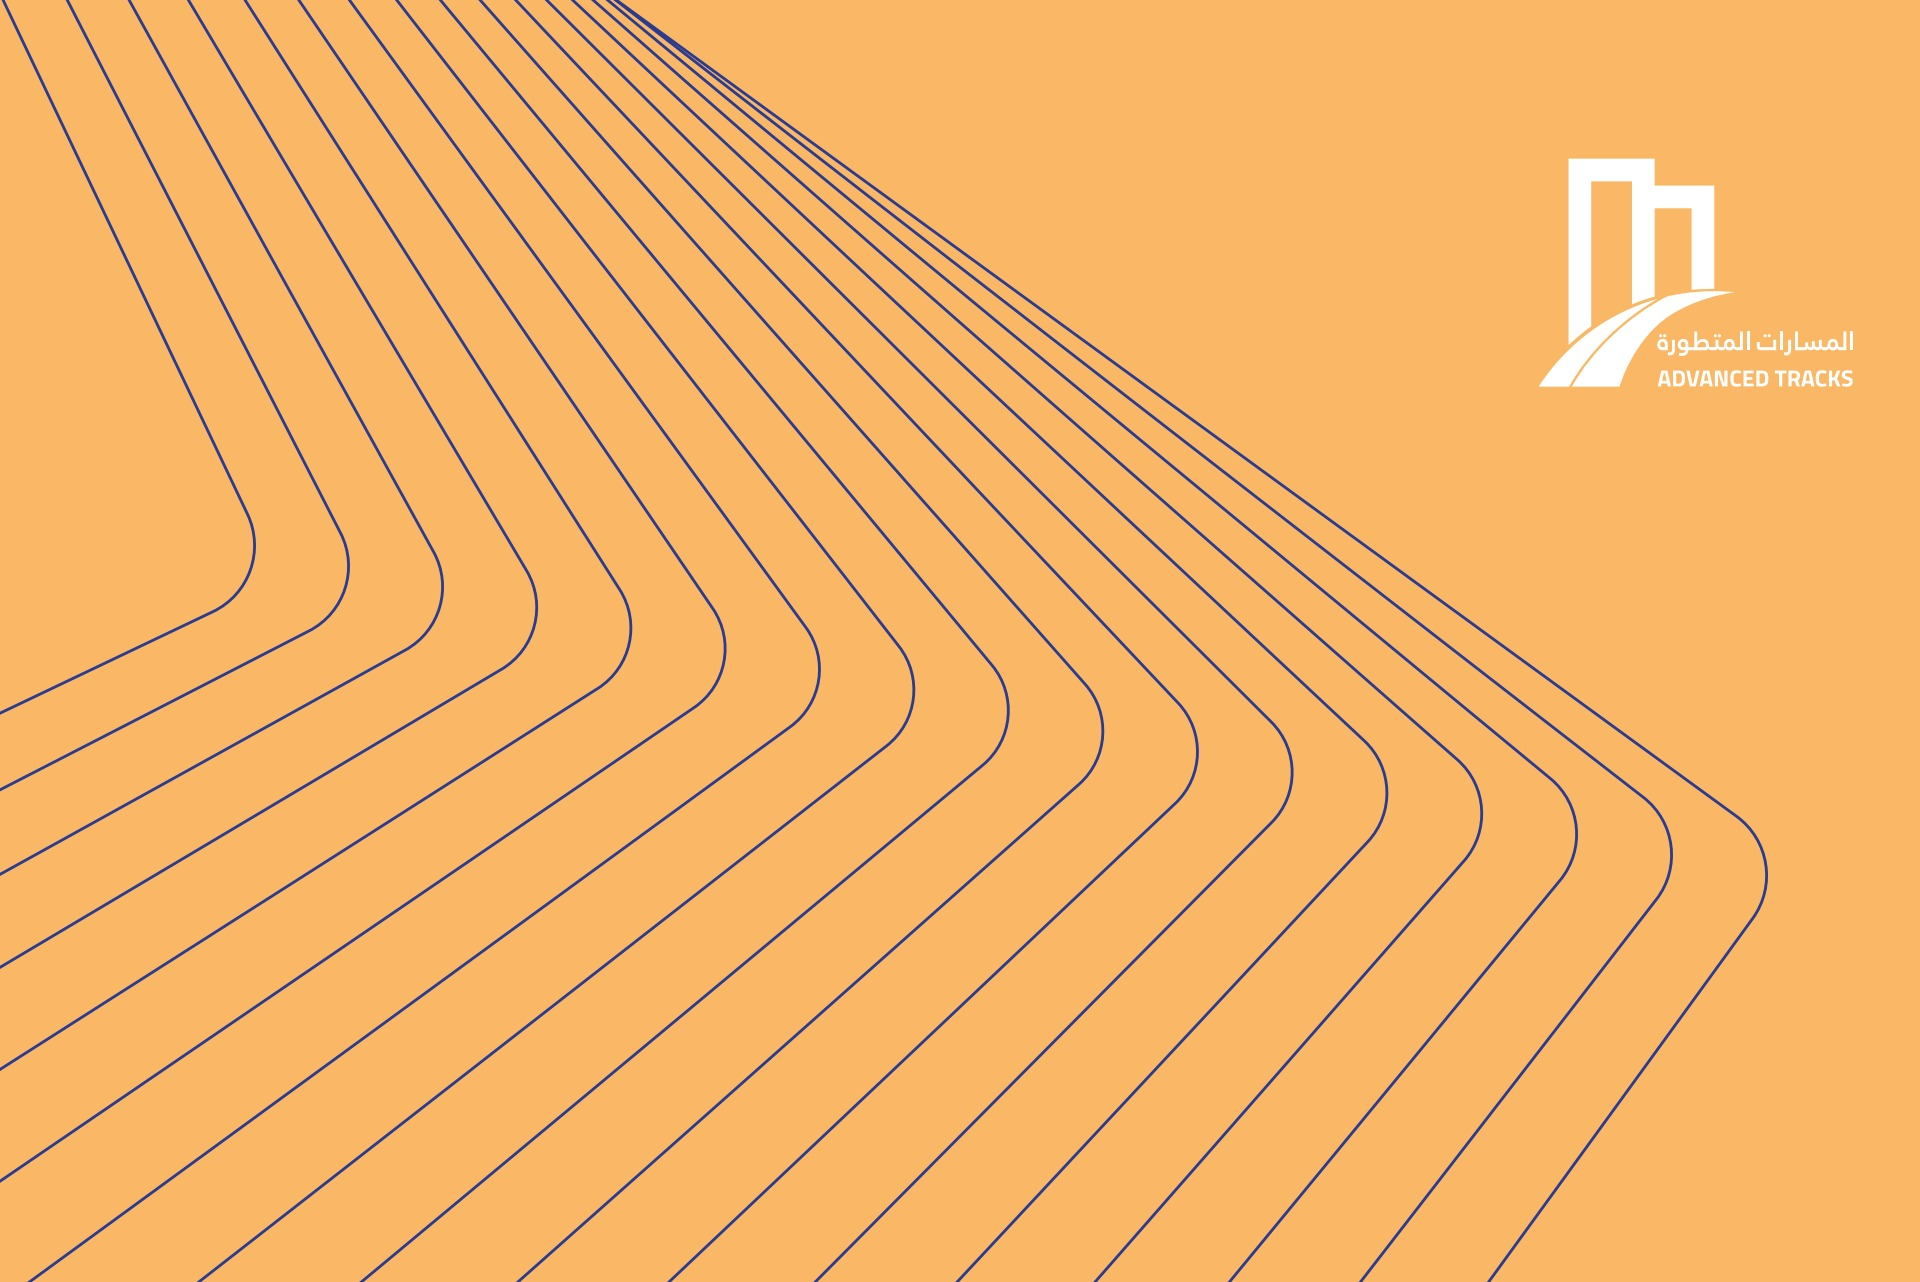
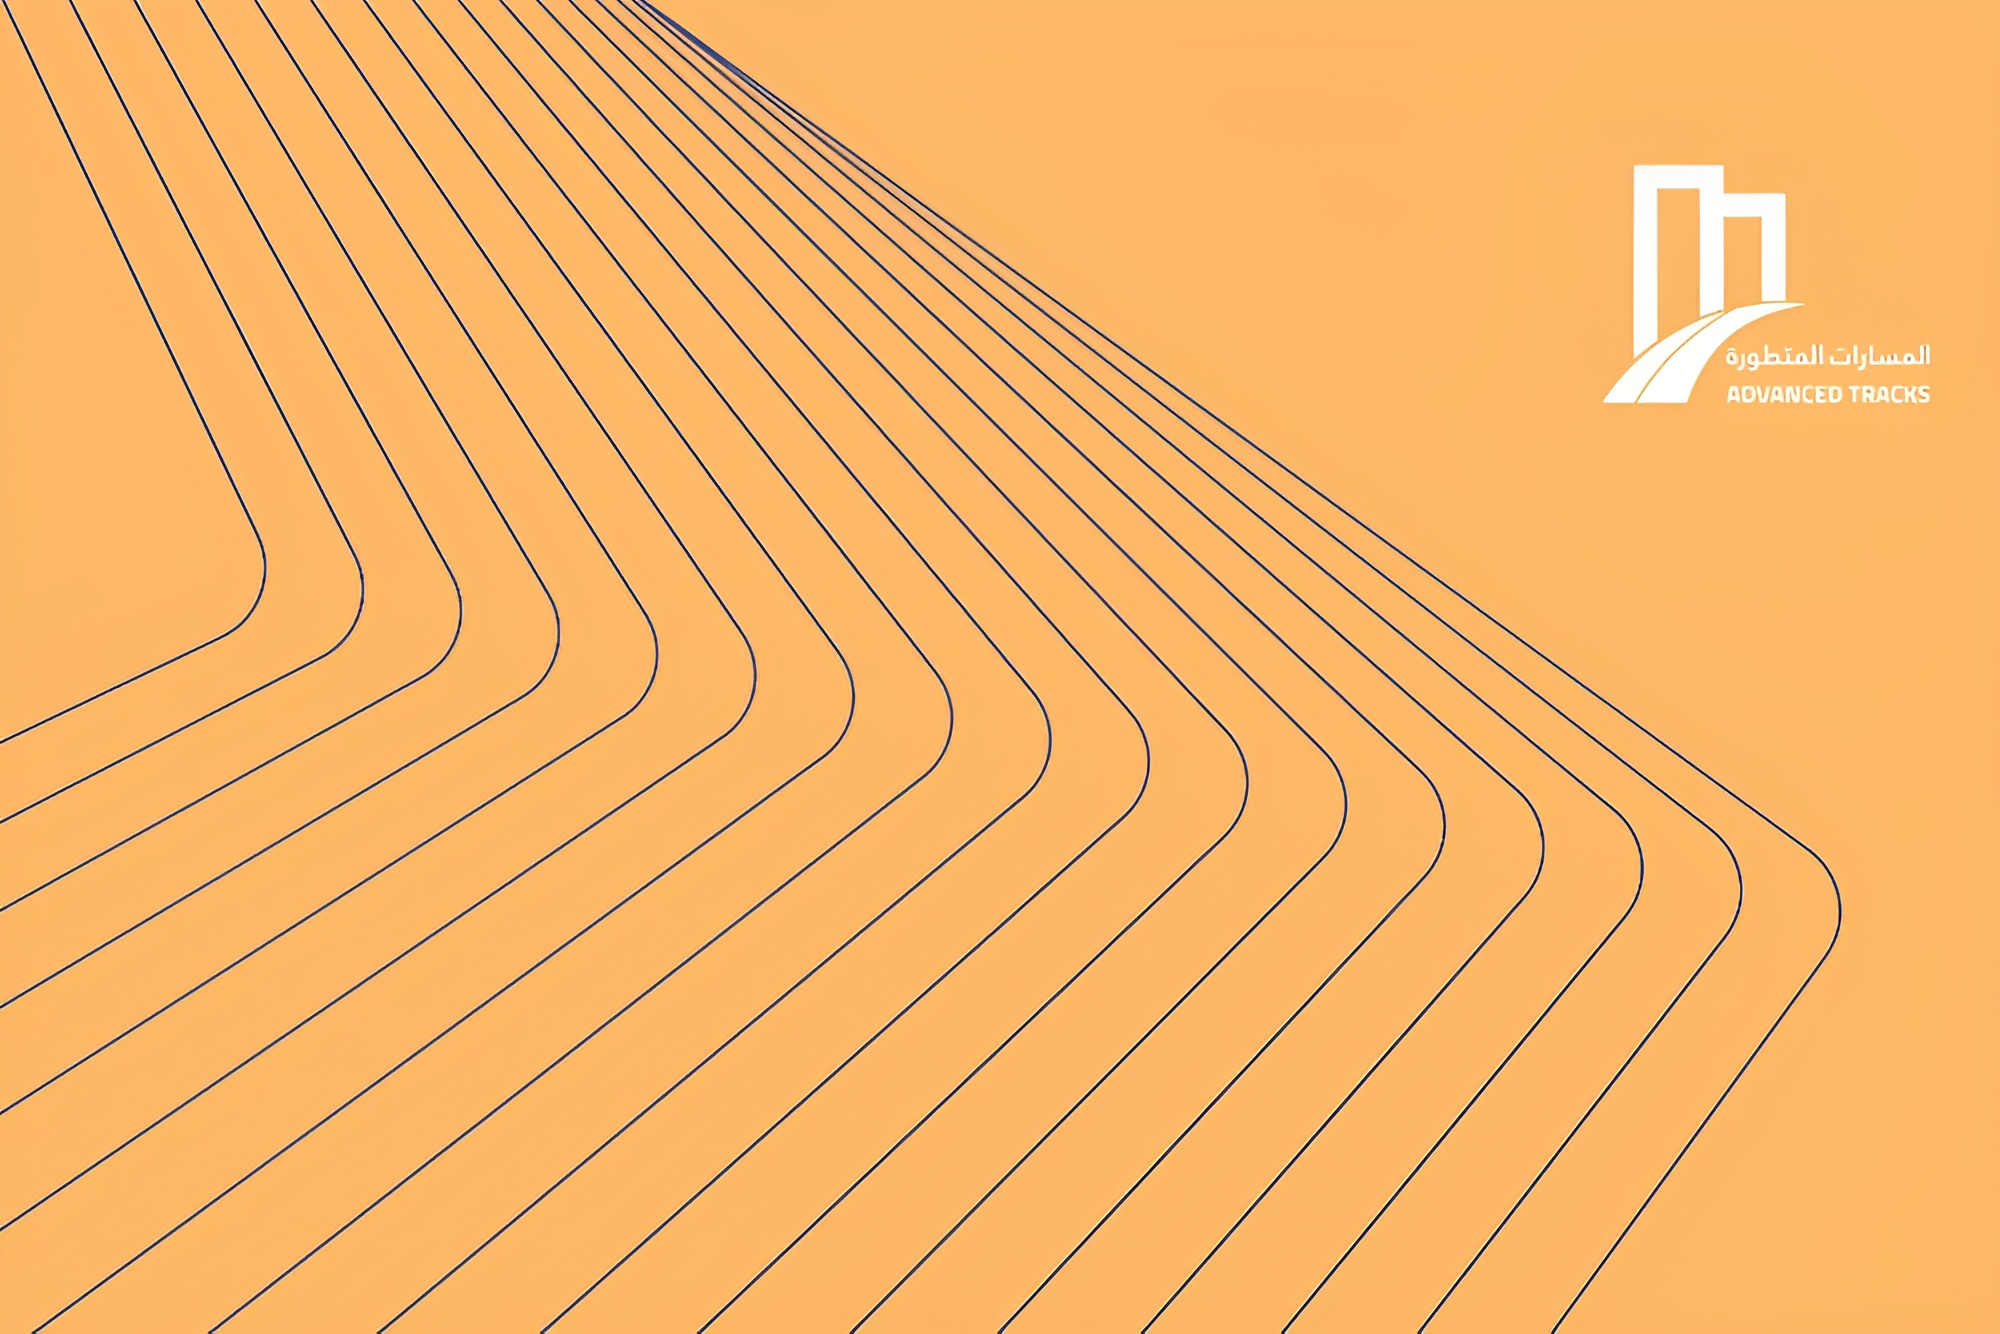
Most Image Changes And UI Elements Added

diff --git a/appto.html b/appto.html
@@ -243,13 +243,13 @@ $(document).ready(function(){
 	<!-- End feature -->
 
 	<!-- Overview -->
-	<section class="sec-pad bg-grey">
+	<section class="sec-pad bg-yellow">
 		<div class="container">
 			<div class="row">
 				<div class="overview flx-container align-flx-center flx-off-sm row res-center">
 					<div class="col-md-5">
 						<div class="overview-img">
-							<img alt="" src="image/New Images/Tractors 2 Without Background Cropped.png" class="important">
+							<img alt="" src="image/New Images/Cool Lines Image.png" class="important" height="200px !important">
 						</div>
 					</div>
 					<div class="col-md-6 col-md-offset-1">
@@ -397,7 +397,17 @@ $(document).ready(function(){
 		</div>
 	</section>
 	<!-- End content -->
-
+	<section style="background:white;">
+		<div class="sec-pad-lg" >
+			<div class="container">
+				<div class="row">
+					<image src="image/New Images/Mission Text.png"></image>
+					
+				</div>
+			</div>
+			</div>
+		</div>
+	</section>
 	<!-- Feature -->
 	<section id="feature" class="sec-pad grdnt-blue hide-block">
 		<div class="container">
@@ -433,7 +443,7 @@ $(document).ready(function(){
 					</div>
 					<div class="col-md-4">
 						<div class="text-center wow animated pulse" data-wow-delay=".5s">
-							<img alt="" class="important" src="image/Road Building Portrait 8.jpg">
+							<img alt="" class="important" src="image/New Images/Conact Us Cropped Square.png">
 						</div>
 					</div>
 
@@ -515,84 +525,84 @@ $(document).ready(function(){
 	</section>
 	<!-- End video -->
 
-<!-- Pricing 
+<!-- Pricing -->
 	<section id="pricing" class="sec-pad">
 		<div class="container">
 			<div class="row">
 				<div class="section-text text-center">
-					<h2 class="clr-blue">Pricing</h2>
-					<p>Put down your phone and focus on what's more important experience in your life with AppTo.</p>
+					<h2 class="clr-blue">The Products We Offer</h2>
+					<p style="color: gray;">Schemes-Street-Parking</p>
 				</div>
 				<div class="pricing col-md-10 col-md-offset-1 text-center">
 					<div class="col-sm-4">
 						<div class="pricing-table res-margin-sm">
 							<div class="pricing-header bg-grey">
-								<h6 class="fw-600">INITIAL</h6>
+								<h6 class="fw-600">SCHEMES</h6>
 								<div class="main-pricing">
-									<h3 class="fw-600">$20<span class="meta fw-300"> / month</span></h3>
+									<h3 class="fw-600"><span class="meta fw-300"></span></h3>
 								</div>
 							</div>
 							<div class="pricing-content">
 								<div class="pricing-feature">
 									<ul>
-										<li>Free Setup</li>
-										<li>Unlimited Bandwidth</li>
-										<li>50GB Storage</li>
-										<li>100GB Disk Space</li>
-										<li>Unimited Download</li>
+										<li>Schemes For Your Needs</li>
+										<li>Customized Asphalt Solutions</li>
+										<li>Performance-Based Packages</li>
+										<li>Innovative Design Choices</li>
+										<li>Cost-Efficient Packages</li>
 									</ul>
 								</div>
 							</div>
 							<div class="pricing-footer">
-								<a class="btn grdnt-green" href="#">Order Now</a>
+								<a class="btn grdnt-green" href="#contact">Contact Us</a>
 							</div>
 						</div>
 					</div>
 					<div class="col-sm-4">
 						<div class="pricing-table main res-margin-sm">
 							<div class="pricing-header grdnt-blue style-wave light">
-								<h6 class="fw-600">STANDERD</h6>
+								<h6 class="fw-600">STREET</h6>
 								<div class="main-pricing">
-									<h3 class="fw-600 clr-green">$30<span class="meta light fw-300"> / month</span></h3>
+									<h3 class="fw-600 clr-green"><span class="meta light fw-300"></span></h3>
 								</div>
 							</div>
 							<div class="pricing-content">
 								<div class="pricing-feature">
 									<ul>
-										<li>Free Setup</li>
-										<li>Unlimited Bandwidth</li>
-										<li>50GB Storage</li>
-										<li>100GB Disk Space</li>
-										<li>Unimited Download</li>
+										<li>Durable Street Solutions</li>
+										<li>Traffic-Optimized</li>
+										<li>Environmental Sustainability</li>
+										<li>Quick Installation Packages</li>
+										<li>Customizable Urban Designs</li>
 									</ul>
 								</div>
 							</div>
 							<div class="pricing-footer">
-								<a class="btn grdnt-blue" href="#">Order Now</a>
+								<a class="btn grdnt-blue" href="#contact" style="color: white;">Contact Us</a>
 							</div>
 						</div>
 					</div>
 					<div class="col-sm-4">
 						<div class="pricing-table">
 							<div class="pricing-header bg-grey">
-								<h6 class="fw-600">BUSINESS</h6>
+								<h6 class="fw-600">PARKING</h6>
 								<div class="main-pricing">
-									<h3 class="fw-600">$40<span class="meta fw-300"> / month</span></h3>
+									<h3 class="fw-600"><span class="meta fw-300"></span></h3>
 								</div>
 							</div>
 							<div class="pricing-content">
 								<div class="pricing-feature">
 									<ul>
-										<li>Free Setup</li>
-										<li>Unlimited Bandwidth</li>
-										<li>50GB Storage</li>
-										<li>100GB Disk Space</li>
-										<li>Unimited Download</li>
+										<li>Heavy-Duty Parking Solutions</li>
+										<li>Optimized Traffic Flow</li>
+										<li>Environmentally Friendly Parking Lots</li>
+										<li>Rapid Installation Packages</li>
+										<li>Premium Parking Solutions</li>
 									</ul>
 								</div>
 							</div>
 							<div class="pricing-footer">
-								<a class="btn grdnt-green" href="#">Order Now</a>
+								<a class="btn grdnt-green" href="#contact">Contact Us</a>
 							</div>
 						</div>
 					</div>
@@ -600,7 +610,6 @@ $(document).ready(function(){
 			</div>
 		</div>
 	</section>
-	-->
 	<!-- End Pricing -->
 
 	<!-- Testimonial -->
@@ -731,7 +740,7 @@ $(document).ready(function(){
 
 	<!-- download-section -->
 	<section class="grdnt-green">
-		<div class="parallax-bg sec-pad-lg" style='background-image: url("image/bg-parallax-c.png")' data-stellar-background-ratio="0.5">
+		<div class="parallax-bg sec-pad-lg" style='background-image: url("image/New Images/Black\ And\ White\ Truck\ Works.png")' data-stellar-background-ratio="0.5">
 			<div class="container">
 				<div class="row">
 				<div class="section-text text-center light">

diff --git a/css/style.css b/css/style.css
@@ -329,6 +329,9 @@ img{
 .bg-blue{
 	background: #191a48;
 }
+.bg-yellow{
+	background: #fab766;
+}
 .grdnt-blue:not(.overly){
 	background-image: -webkit-linear-gradient(45deg, #36345f 0%, #36345f 51% , #36345f 100%);
 	background-image: linear-gradient(45deg, #36345f 0%, #36345f 51% , #36345f 100%);
